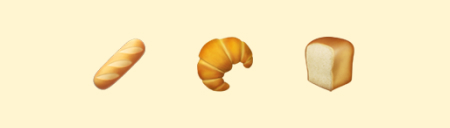
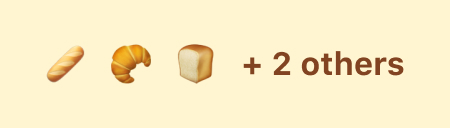
Update breads

Changed region(s): [[0.3733, 0.2812, 0.9022, 0.7188], [0.1867, 0.2812, 0.3422, 0.7188], [0.0933, 0.3438, 0.1867, 0.6562]]

diff --git a/index.html b/index.html
@@ -138,7 +138,7 @@
       </div>
       <div class="content-panel content-panel-small post-list-overflow-panel">
         <div class="content-panel-header"><span class="tag">From the blog</span>
-          <h1><a id="post-list-overflow" href="https://medium.com/@clg/ui-tip-list-overflow-and-x-others-36453b5081f9">UI Tip: list overflow and '+x others'</a></h1>
+          <h1><a id="post-list-overflow" href="https://medium.com/@clg/ui-tip-list-overflow-and-x-others-36453b5081f9">UI Tip: list overflow and ‘+&nbsp;others’</a></h1>
           <p>A problem of <i>just a little</i> too much bread.</p>
           <div class="image-gallery"><a href="https://medium.com/@clg/ui-tip-list-overflow-and-x-others-36453b5081f9"><img srcset="/img/post-list-overflow.jpg 1x, /img/post-list-overflow@2x.jpg 2x" src="/img/post-list-overflow@2x.jpg" alt="Various bread emojis"></a></div>
         </div>
